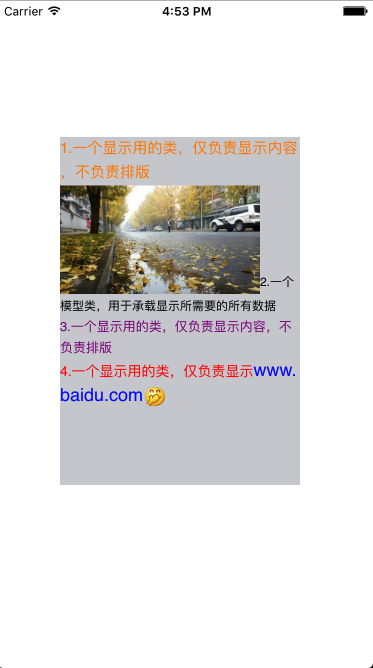
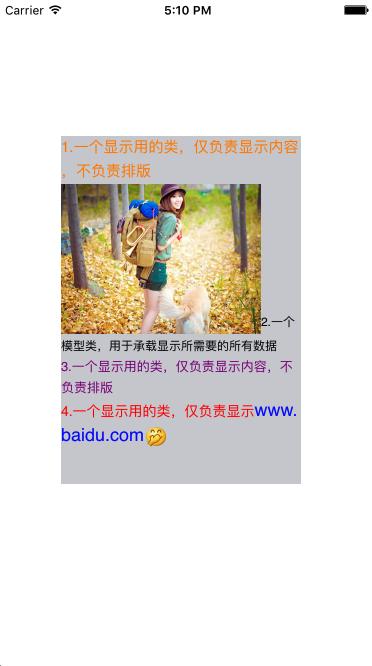
readme

diff --git a/LXCoretextLean/LXCoretextLean/ViewController.m b/LXCoretextLean/LXCoretextLean/ViewController.m
@@ -38,9 +38,9 @@
     index += t1.text.length;
     
     LXImageContent *t2 = [[LXImageContent alloc] init];
-    t2.imageName = @"coretext-image-1.jpg";
+    t2.imageName = @"a.jpg";
     t2.width = 200;
-    t2.height = 108.5;
+    t2.height = 150;
     t2.range = NSMakeRange(index, 1);
     t2.contentType = LXContentTypeImage;
     index += 1;

diff --git a/README.md b/README.md
@@ -10,4 +10,5 @@ Use CTCoretext draw content
 > (LXCoretextDataManager *)parserAttributString:(NSAttributedString *)content withConfig:(LXFrameParsesConfig *)config
 
 #运行结果
+
 ![image](https://github.com/liuxinxiaoyue/LXCoretextDemo/blob/master/ScreenShoot/1.png)
